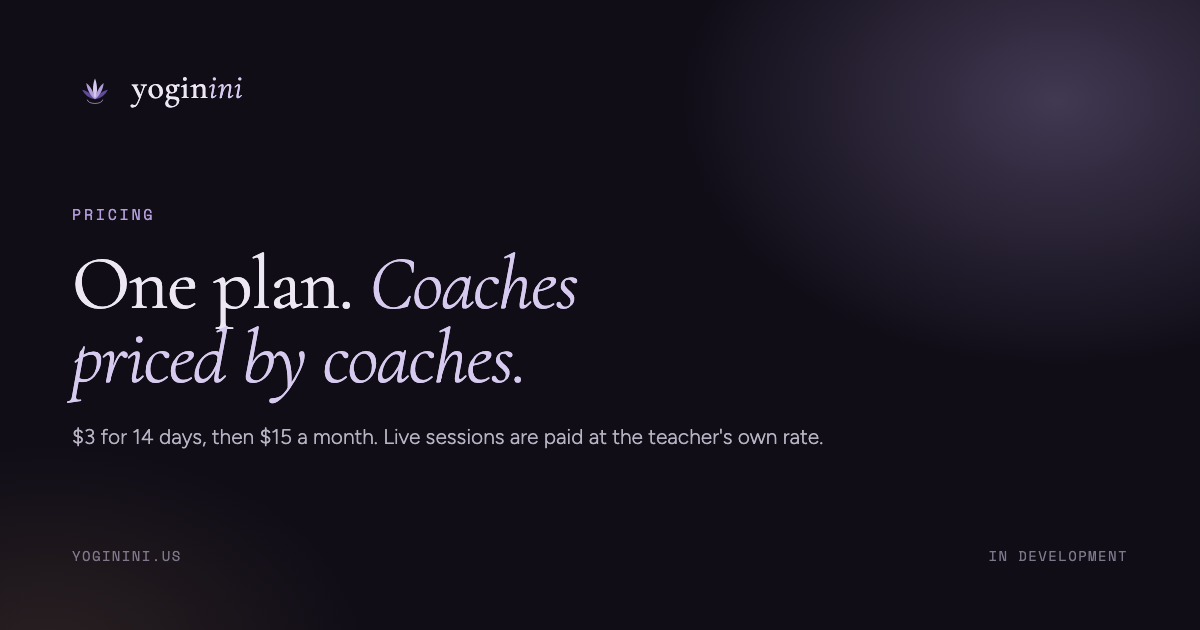
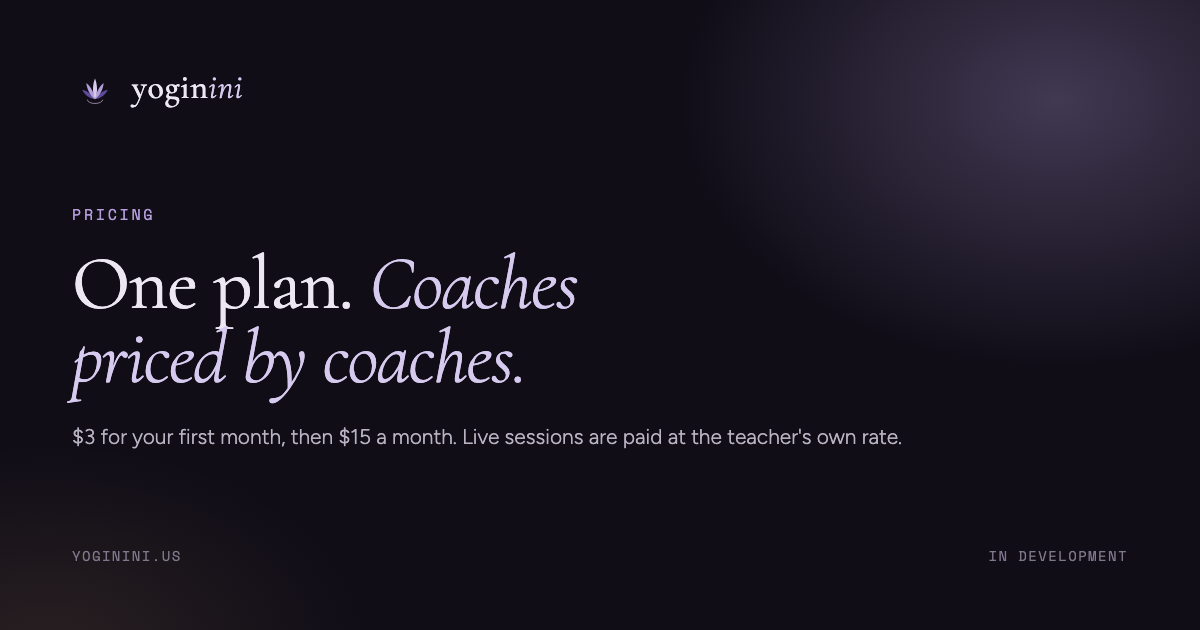
Pricing: $3 for your first month, then $15 a month (#20)
The owner chose the trial: $3 for the first month (a valid App Store intro period), then $15 a month.

Changed region(s): [[0.0925, 0.6635, 0.74, 0.7238]]

diff --git a/pricing/index.html b/pricing/index.html
@@ -4,7 +4,7 @@
 <meta charset="utf-8">
 <meta name="viewport" content="width=device-width, initial-scale=1">
 <title>Pricing — Yoginini</title>
-<meta name="description" content="$3 for 14 days, then $15 a month. Coaches are paid separately at their own hourly rate and keep 80% of every 1:1 session.">
+<meta name="description" content="$3 for your first month, then $15 a month. Coaches are paid separately at their own hourly rate and keep 80% of every 1:1 session.">
 <link rel="canonical" href="https://yoginini.us/pricing/">
 <meta name="theme-color" content="#100d17">
 <meta name="color-scheme" content="light">
@@ -12,14 +12,14 @@
 <meta property="og:type" content="website">
 <meta property="og:site_name" content="Yoginini">
 <meta property="og:title" content="Pricing — Yoginini">
-<meta property="og:description" content="$3 for 14 days, then $15 a month. Coaches are paid separately at their own hourly rate and keep 80% of every 1:1 session.">
+<meta property="og:description" content="$3 for your first month, then $15 a month. Coaches are paid separately at their own hourly rate and keep 80% of every 1:1 session.">
 <meta property="og:url" content="https://yoginini.us/pricing/">
 <meta property="og:image" content="https://yoginini.us/assets/og-pricing.png">
 <meta property="og:image:width" content="1200">
 <meta property="og:image:height" content="630">
 <meta name="twitter:card" content="summary_large_image">
 <meta name="twitter:title" content="Pricing — Yoginini">
-<meta name="twitter:description" content="$3 for 14 days, then $15 a month. Coaches are paid separately at their own hourly rate and keep 80% of every 1:1 session.">
+<meta name="twitter:description" content="$3 for your first month, then $15 a month. Coaches are paid separately at their own hourly rate and keep 80% of every 1:1 session.">
 <meta name="twitter:image" content="https://yoginini.us/assets/og-pricing.png">
 
 <link rel="icon" href="/assets/favicon.svg" type="image/svg+xml">
@@ -39,7 +39,7 @@
   .sheet-card .form input::placeholder { color: var(--on-dark-5); }
   .sheet-card .form input:focus, .sheet-card .form select:focus { border-color: var(--lav); }
   .sheet-card .form select option { background: #100d17; }</style>
-<script type="application/ld+json">{"@context":"https://schema.org","@graph":[{"@type":"Organization","@id":"https://yoginini.us/#org","name":"Yoginini","url":"https://yoginini.us","email":"contact@yoginini.us","description":"Yoginini is a yoga app that watches your form through your phone camera and speaks corrections out loud, the way a teacher would across the room. Pose tracking runs on the device and video never leaves it. When you want a human, you book a real teacher by the hour.","logo":"https://yoginini.us/assets/icon-512.png","parentOrganization":{"@type":"Organization","name":"Factory Zero","url":"https://factory0.ventures"}},{"@type":"WebSite","@id":"https://yoginini.us/#site","url":"https://yoginini.us","name":"Yoginini","publisher":{"@id":"https://yoginini.us/#org"},"inLanguage":"en"},{"@type":"FAQPage","@id":"https://yoginini.us/pricing/#faq","mainEntity":[{"@type":"Question","name":"What exactly happens on day 14?","acceptedAnswer":{"@type":"Answer","text":"Your $3 trial becomes the $15 monthly membership. You'll get an email on day 12 with a one-tap cancel link. Cancel before day 14 and you pay nothing more."}},{"@type":"Question","name":"Is the price the same in the app and on the web?","acceptedAnswer":{"@type":"Answer","text":"In the US, yes: $15 either way. In other countries the App Store sets its own local price, so it can differ a little from the web. App stores take a cut of in-app subscriptions, so subscribing on the web leaves more for building the product."}},{"@type":"Question","name":"Do coaches charge extra for their poses and sequences?","acceptedAnswer":{"@type":"Answer","text":"No. Anything a coach publishes to the library is included in membership. Coaches earn from live sessions, not from gating content."}},{"@type":"Question","name":"How are coach payments handled?","acceptedAnswer":{"@type":"Answer","text":"Through Stripe. You pay per session at the coach's hourly rate; for every 1:1 session, the coach receives 80% and is paid out automatically. Refunds for missed or cancelled sessions follow each coach's stated policy."}},{"@type":"Question","name":"Can I pause instead of cancelling?","acceptedAnswer":{"@type":"Answer","text":"There is no pause, but cancelling loses nothing. Your streak and history are kept, and you can resubscribe any time. The trial is once per person, so coming back goes straight to the monthly membership."}},{"@type":"Question","name":"When does any of this start charging?","acceptedAnswer":{"@type":"Answer","text":"Not yet. There is no app and no payment form on this site. Nothing can charge you today, and the waitlist never asks for a card."}}]},{"@type":"BreadcrumbList","itemListElement":[{"@type":"ListItem","position":1,"name":"Home","item":"https://yoginini.us/"},{"@type":"ListItem","position":2,"name":"Pricing","item":"https://yoginini.us/pricing/"}]}]}</script>
+<script type="application/ld+json">{"@context":"https://schema.org","@graph":[{"@type":"Organization","@id":"https://yoginini.us/#org","name":"Yoginini","url":"https://yoginini.us","email":"contact@yoginini.us","description":"Yoginini is a yoga app that watches your form through your phone camera and speaks corrections out loud, the way a teacher would across the room. Pose tracking runs on the device and video never leaves it. When you want a human, you book a real teacher by the hour.","logo":"https://yoginini.us/assets/icon-512.png","parentOrganization":{"@type":"Organization","name":"Factory Zero","url":"https://factory0.ventures"}},{"@type":"WebSite","@id":"https://yoginini.us/#site","url":"https://yoginini.us","name":"Yoginini","publisher":{"@id":"https://yoginini.us/#org"},"inLanguage":"en"},{"@type":"FAQPage","@id":"https://yoginini.us/pricing/#faq","mainEntity":[{"@type":"Question","name":"What happens when the first month ends?","acceptedAnswer":{"@type":"Answer","text":"Your $3 first month becomes the $15 monthly membership. You'll get an email two days before, with a one-tap cancel link. Cancel before the month ends and you pay nothing more."}},{"@type":"Question","name":"Is the price the same in the app and on the web?","acceptedAnswer":{"@type":"Answer","text":"In the US, yes: $15 either way. In other countries the App Store sets its own local price, so it can differ a little from the web. App stores take a cut of in-app subscriptions, so subscribing on the web leaves more for building the product."}},{"@type":"Question","name":"Do coaches charge extra for their poses and sequences?","acceptedAnswer":{"@type":"Answer","text":"No. Anything a coach publishes to the library is included in membership. Coaches earn from live sessions, not from gating content."}},{"@type":"Question","name":"How are coach payments handled?","acceptedAnswer":{"@type":"Answer","text":"Through Stripe. You pay per session at the coach's hourly rate; for every 1:1 session, the coach receives 80% and is paid out automatically. Refunds for missed or cancelled sessions follow each coach's stated policy."}},{"@type":"Question","name":"Can I pause instead of cancelling?","acceptedAnswer":{"@type":"Answer","text":"There is no pause, but cancelling loses nothing. Your streak and history are kept, and you can resubscribe any time. The trial is once per person, so coming back goes straight to the monthly membership."}},{"@type":"Question","name":"When does any of this start charging?","acceptedAnswer":{"@type":"Answer","text":"Not yet. There is no app and no payment form on this site. Nothing can charge you today, and the waitlist never asks for a card."}}]},{"@type":"BreadcrumbList","itemListElement":[{"@type":"ListItem","position":1,"name":"Home","item":"https://yoginini.us/"},{"@type":"ListItem","position":2,"name":"Pricing","item":"https://yoginini.us/pricing/"}]}]}</script>
 </head>
 <body>
 <a class="skip" href="#main">Skip to content</a>
@@ -72,8 +72,8 @@
   <div class="cards-3" style="max-width:960px;margin:0 auto;grid-template-columns:repeat(auto-fit,minmax(min(100%,300px),1fr))">
     <div class="card" style="padding:40px 36px;border-radius:28px;box-shadow:0 40px 60px -40px rgba(26,22,32,.3);gap:18px">
       <span class="mono" style="font-size:11px;color:var(--muted-2)">TRIAL</span>
-      <span style="display:flex;align-items:baseline;gap:8px"><span style="font-family:var(--serif);font-size:80px;line-height:1">$3</span><span class="body">for 14 days</span></span>
-      <p class="body" style="margin:0">Everything in membership, for two weeks. On day 14 it rolls into the monthly plan unless you cancel. We email you on day 12, and cancelling is one tap.</p>
+      <span style="display:flex;align-items:baseline;gap:8px"><span style="font-family:var(--serif);font-size:80px;line-height:1">$3</span><span class="body">for your first month</span></span>
+      <p class="body" style="margin:0">Everything in membership, for your first month. Then it rolls into the monthly plan unless you cancel. We email you two days before, and cancelling is one tap.</p>
       <button class="btn btn-ghost btn-block" type="button" data-sheet style="margin-top:auto">Join the waitlist</button>
     </div>
     <div class="card card-dark" style="padding:40px 36px;border-radius:28px;border-color:var(--purple);box-shadow:0 40px 60px -40px rgba(26,22,32,.5);gap:18px">
@@ -128,8 +128,8 @@
     <h2 style="margin-bottom:clamp(28px,4vh,48px)">Billing, plainly.</h2>
     <div class="faq">
       <details>
-        <summary><span>What exactly happens on day 14?</span><span class="plus" aria-hidden="true">+</span></summary>
-        <p class="answer">Your $3 trial becomes the $15 monthly membership. You’ll get an email on day 12 with a one-tap cancel link. Cancel before day 14 and you pay nothing more.</p>
+        <summary><span>What happens when the first month ends?</span><span class="plus" aria-hidden="true">+</span></summary>
+        <p class="answer">Your $3 first month becomes the $15 monthly membership. You’ll get an email two days before, with a one-tap cancel link. Cancel before the month ends and you pay nothing more.</p>
       </details>
       <details>
         <summary><span>Is the price the same in the app and on the web?</span><span class="plus" aria-hidden="true">+</span></summary>

diff --git a/index.html b/index.html
@@ -39,7 +39,7 @@
   .sheet-card .form input::placeholder { color: var(--on-dark-5); }
   .sheet-card .form input:focus, .sheet-card .form select:focus { border-color: var(--lav); }
   .sheet-card .form select option { background: #100d17; }</style>
-<script type="application/ld+json">{"@context":"https://schema.org","@graph":[{"@type":"Organization","@id":"https://yoginini.us/#org","name":"Yoginini","url":"https://yoginini.us","email":"contact@yoginini.us","description":"Yoginini is a yoga app that watches your form through your phone camera and speaks corrections out loud, the way a teacher would across the room. Pose tracking runs on the device and video never leaves it. When you want a human, you book a real teacher by the hour.","logo":"https://yoginini.us/assets/icon-512.png","parentOrganization":{"@type":"Organization","name":"Factory Zero","url":"https://factory0.ventures"}},{"@type":"WebSite","@id":"https://yoginini.us/#site","url":"https://yoginini.us","name":"Yoginini","publisher":{"@id":"https://yoginini.us/#org"},"inLanguage":"en"},{"@type":"SoftwareApplication","@id":"https://yoginini.us/#app","name":"Yoginini","applicationCategory":"HealthApplication","applicationSubCategory":"Yoga","operatingSystem":"iOS","description":"Yoginini is a yoga app that watches your form through your phone camera and speaks corrections out loud, the way a teacher would across the room. Pose tracking runs on the device and video never leaves it. When you want a human, you book a real teacher by the hour.","publisher":{"@id":"https://yoginini.us/#org"},"offers":[{"@type":"Offer","name":"Trial","price":"3","priceCurrency":"USD","description":"14 days trial, then the monthly membership","availability":"https://schema.org/PreOrder"},{"@type":"Offer","name":"Membership","price":"15","priceCurrency":"USD","availability":"https://schema.org/PreOrder","priceSpecification":{"@type":"UnitPriceSpecification","price":"15","priceCurrency":"USD","billingDuration":1,"billingIncrement":1,"unitCode":"MON","referenceQuantity":{"@type":"QuantitativeValue","value":1,"unitCode":"MON"}}}]},{"@type":"FAQPage","@id":"https://yoginini.us/#faq","mainEntity":[{"@type":"Question","name":"Does anyone see my camera feed?","acceptedAnswer":{"@type":"Answer","text":"No. Video is processed on your phone and discarded frame by frame. Our servers receive joint angles and scores, never images. There is nothing to watch, even for us."}},{"@type":"Question","name":"I'm a complete beginner. Will it just tell me I'm wrong all the time?","acceptedAnswer":{"@type":"Answer","text":"Every pose ships with beginner, intermediate and advanced tolerances, and over time the app scales to your own baseline. A tight hamstring is a starting point, not an error."}},{"@type":"Question","name":"What happens after the $3 trial?","acceptedAnswer":{"@type":"Answer","text":"After 14 days it becomes the $15 monthly membership. We email you two days before, and cancelling takes one tap."}},{"@type":"Question","name":"Are coaching sessions included in the membership?","acceptedAnswer":{"@type":"Answer","text":"No. Coaches set their own hourly rate, and you pay per session. Your membership gives you their published poses and sequences to practise between calls."}},{"@type":"Question","name":"Can a teacher look at my progress?","acceptedAnswer":{"@type":"Answer","text":"If you want them to. You choose which sessions, poses or your full history to send a coach for review. They see the same angles and scores the app saw, never video, and can reply with notes or a sequence to work on. Sharing is off by default and you can revoke it any time."}},{"@type":"Question","name":"Do I need special equipment?","acceptedAnswer":{"@type":"Answer","text":"A phone with a camera and somewhere to lean it. Landscape, about two metres away, roughly hip height. The app checks your framing before each session."}},{"@type":"Question","name":"Which phones?","acceptedAnswer":{"@type":"Answer","text":"iPhone first, Android shortly after. Join the waitlist and tell us which you use."}},{"@type":"Question","name":"Is Yoginini available yet?","acceptedAnswer":{"@type":"Answer","text":"Not yet. Nothing has shipped and there is no app to download. Our first founding coach has joined, and the waitlist is open; booking starts when the app launches."}}]}]}</script>
+<script type="application/ld+json">{"@context":"https://schema.org","@graph":[{"@type":"Organization","@id":"https://yoginini.us/#org","name":"Yoginini","url":"https://yoginini.us","email":"contact@yoginini.us","description":"Yoginini is a yoga app that watches your form through your phone camera and speaks corrections out loud, the way a teacher would across the room. Pose tracking runs on the device and video never leaves it. When you want a human, you book a real teacher by the hour.","logo":"https://yoginini.us/assets/icon-512.png","parentOrganization":{"@type":"Organization","name":"Factory Zero","url":"https://factory0.ventures"}},{"@type":"WebSite","@id":"https://yoginini.us/#site","url":"https://yoginini.us","name":"Yoginini","publisher":{"@id":"https://yoginini.us/#org"},"inLanguage":"en"},{"@type":"SoftwareApplication","@id":"https://yoginini.us/#app","name":"Yoginini","applicationCategory":"HealthApplication","applicationSubCategory":"Yoga","operatingSystem":"iOS","description":"Yoginini is a yoga app that watches your form through your phone camera and speaks corrections out loud, the way a teacher would across the room. Pose tracking runs on the device and video never leaves it. When you want a human, you book a real teacher by the hour.","publisher":{"@id":"https://yoginini.us/#org"},"offers":[{"@type":"Offer","name":"Trial","price":"3","priceCurrency":"USD","description":"your first month trial, then the monthly membership","availability":"https://schema.org/PreOrder"},{"@type":"Offer","name":"Membership","price":"15","priceCurrency":"USD","availability":"https://schema.org/PreOrder","priceSpecification":{"@type":"UnitPriceSpecification","price":"15","priceCurrency":"USD","billingDuration":1,"billingIncrement":1,"unitCode":"MON","referenceQuantity":{"@type":"QuantitativeValue","value":1,"unitCode":"MON"}}}]},{"@type":"FAQPage","@id":"https://yoginini.us/#faq","mainEntity":[{"@type":"Question","name":"Does anyone see my camera feed?","acceptedAnswer":{"@type":"Answer","text":"No. Video is processed on your phone and discarded frame by frame. Our servers receive joint angles and scores, never images. There is nothing to watch, even for us."}},{"@type":"Question","name":"I'm a complete beginner. Will it just tell me I'm wrong all the time?","acceptedAnswer":{"@type":"Answer","text":"Every pose ships with beginner, intermediate and advanced tolerances, and over time the app scales to your own baseline. A tight hamstring is a starting point, not an error."}},{"@type":"Question","name":"What happens after the $3 trial?","acceptedAnswer":{"@type":"Answer","text":"After your first month it becomes the $15 monthly membership. We email you two days before, and cancelling takes one tap."}},{"@type":"Question","name":"Are coaching sessions included in the membership?","acceptedAnswer":{"@type":"Answer","text":"No. Coaches set their own hourly rate, and you pay per session. Your membership gives you their published poses and sequences to practise between calls."}},{"@type":"Question","name":"Can a teacher look at my progress?","acceptedAnswer":{"@type":"Answer","text":"If you want them to. You choose which sessions, poses or your full history to send a coach for review. They see the same angles and scores the app saw, never video, and can reply with notes or a sequence to work on. Sharing is off by default and you can revoke it any time."}},{"@type":"Question","name":"Do I need special equipment?","acceptedAnswer":{"@type":"Answer","text":"A phone with a camera and somewhere to lean it. Landscape, about two metres away, roughly hip height. The app checks your framing before each session."}},{"@type":"Question","name":"Which phones?","acceptedAnswer":{"@type":"Answer","text":"iPhone first, Android shortly after. Join the waitlist and tell us which you use."}},{"@type":"Question","name":"Is Yoginini available yet?","acceptedAnswer":{"@type":"Answer","text":"Not yet. Nothing has shipped and there is no app to download. Our first founding coach has joined, and the waitlist is open; booking starts when the app launches."}}]}]}</script>
 </head>
 <body>
 <a class="skip" href="#main">Skip to content</a>
@@ -389,8 +389,8 @@
         <div class="card" data-reveal>
           <span class="mono" style="font-size:11px;color:var(--muted-2)">TRY IT</span>
           <span style="font-family:var(--serif);font-size:64px;line-height:1">$3</span>
-          <span class="fine" style="margin:0">for 14 days</span>
-          <p class="body" style="margin:0;font-size:14px">Full access, every pose, every cue. On day 14 it becomes the monthly plan unless you cancel, and we remind you two days before.</p>
+          <span class="fine" style="margin:0">for your first month</span>
+          <p class="body" style="margin:0;font-size:14px">Full access, every pose, every cue. After the first month it becomes the monthly plan unless you cancel, and we remind you two days before.</p>
         </div>
         <div class="card card-dark" data-reveal>
           <span class="mono" style="font-size:11px;color:var(--lav)">MEMBERSHIP</span>
@@ -449,7 +449,7 @@
     </details>
     <details>
       <summary><span>What happens after the $3 trial?</span><span class="plus" aria-hidden="true">+</span></summary>
-      <p class="answer">After 14 days it becomes the $15 monthly membership. We email you two days before, and cancelling takes one tap.</p>
+      <p class="answer">After your first month it becomes the $15 monthly membership. We email you two days before, and cancelling takes one tap.</p>
     </details>
     <details>
       <summary><span>Are coaching sessions included in the membership?</span><span class="plus" aria-hidden="true">+</span></summary>

diff --git a/tools/pages.js b/tools/pages.js
@@ -91,7 +91,7 @@ const PAGES = [
   { slug: 'coaches',     file: 'coaches/index.html',    nav: 'Coaches',     title: `Coaches — ${B.name}`,
     desc: 'Real yoga teachers, booked by the hour. Coaches set their own rate and keep 80% of every 1:1 session. Apply to join the founding cohort.' },
   { slug: 'pricing',     file: 'pricing/index.html',    nav: 'Pricing',     title: `Pricing — ${B.name}`,
-    desc: '$3 for 14 days, then $15 a month. Coaches are paid separately at their own hourly rate and keep 80% of every 1:1 session.' },
+    desc: '$3 for your first month, then $15 a month. Coaches are paid separately at their own hourly rate and keep 80% of every 1:1 session.' },
   { slug: 'privacy',     file: 'privacy/index.html',    nav: null,          title: `Privacy — ${B.name}`,
     desc: 'What Yoginini stores and what it does not. Video is analysed on your phone and discarded; only joint angles and scores leave the device.' }
 ];
@@ -578,7 +578,7 @@ function home() {
           <span class="mono" style="font-size:11px;color:var(--muted-2)">TRY IT</span>
           <span style="font-family:var(--serif);font-size:64px;line-height:1">$${D.pricing.trial.price}</span>
           <span class="fine" style="margin:0">for ${esc(D.pricing.trial.period)}</span>
-          <p class="body" style="margin:0;font-size:14px">Full access, every pose, every cue. On day 14 it becomes the monthly plan unless you cancel, and we remind you two days before.</p>
+          <p class="body" style="margin:0;font-size:14px">Full access, every pose, every cue. After the first month it becomes the monthly plan unless you cancel, and we remind you two days before.</p>
         </div>
         <div class="card card-dark" data-reveal>
           <span class="mono" style="font-size:11px;color:var(--lav)">MEMBERSHIP</span>
@@ -1003,7 +1003,7 @@ function pricing() {
     <div class="card" style="padding:40px 36px;border-radius:28px;box-shadow:0 40px 60px -40px rgba(26,22,32,.3);gap:18px">
       <span class="mono" style="font-size:11px;color:var(--muted-2)">TRIAL</span>
       <span style="display:flex;align-items:baseline;gap:8px"><span style="font-family:var(--serif);font-size:80px;line-height:1">$${P.trial.price}</span><span class="body">for ${esc(P.trial.period)}</span></span>
-      <p class="body" style="margin:0">Everything in membership, for two weeks. On day 14 it rolls into the monthly plan unless you cancel. We email you on day 12, and cancelling is one tap.</p>
+      <p class="body" style="margin:0">Everything in membership, for your first month. Then it rolls into the monthly plan unless you cancel. We email you two days before, and cancelling is one tap.</p>
       <button class="btn btn-ghost btn-block" type="button" data-sheet style="margin-top:auto">Join the waitlist</button>
     </div>
     <div class="card card-dark" style="padding:40px 36px;border-radius:28px;border-color:var(--purple);box-shadow:0 40px 60px -40px rgba(26,22,32,.5);gap:18px">

diff --git a/assets/yog-data.js b/assets/yog-data.js
@@ -41,7 +41,7 @@ window.YOG = {
   /* ── Pricing ─────────────────────────────────────────────── */
   pricing: {
     currency: 'USD',
-    trial:      { name: 'Trial',      price: 3,  period: '14 days', rolls: true },
+    trial:      { name: 'Trial',      price: 3,  period: 'your first month', rolls: true },
     membership: { name: 'Membership', price: 15, period: 'month' },
     membershipIncludes: [
       'Live camera coaching with spoken cues',
@@ -249,7 +249,7 @@ window.YOG = {
     { q: "I'm a complete beginner. Will it just tell me I'm wrong all the time?",
       a: 'Every pose ships with beginner, intermediate and advanced tolerances, and over time the app scales to your own baseline. A tight hamstring is a starting point, not an error.' },
     { q: 'What happens after the $3 trial?',
-      a: 'After 14 days it becomes the $15 monthly membership. We email you two days before, and cancelling takes one tap.' },
+      a: 'After your first month it becomes the $15 monthly membership. We email you two days before, and cancelling takes one tap.' },
     { q: 'Are coaching sessions included in the membership?',
       a: 'No. Coaches set their own hourly rate, and you pay per session. Your membership gives you their published poses and sequences to practise between calls.' },
     { q: 'Can a teacher look at my progress?',
@@ -263,8 +263,8 @@ window.YOG = {
   ],
 
   billingFaqs: [
-    { q: 'What exactly happens on day 14?',
-      a: "Your $3 trial becomes the $15 monthly membership. You'll get an email on day 12 with a one-tap cancel link. Cancel before day 14 and you pay nothing more." },
+    { q: 'What happens when the first month ends?',
+      a: "Your $3 first month becomes the $15 monthly membership. You'll get an email two days before, with a one-tap cancel link. Cancel before the month ends and you pay nothing more." },
     { q: 'Is the price the same in the app and on the web?',
       a: "In the US, yes: $15 either way. In other countries the App Store sets its own local price, so it can differ a little from the web. App stores take a cut of in-app subscriptions, so subscribing on the web leaves more for building the product." },
     { q: 'Do coaches charge extra for their poses and sequences?',

diff --git a/README.md b/README.md
@@ -52,7 +52,7 @@ are stuck — because you chose to share your practice history with them.
 
 | Plan | Price | Notes |
 | :--- | :--- | :--- |
-| Trial | **$3** / 14 days | Rolls into membership on day 14 unless cancelled; email on day 12 |
+| Trial | **$3** / first month | Rolls into membership after the first month unless cancelled; email two days before |
 | Membership | **$15** / month | Same price on web and in-app in the US; the App Store sets local prices elsewhere |
 | Coaching | **$50–85** / hr | Not included. Coach sets the rate and keeps **80%** |
 | Repeat bookings | 10–12% | Platform share drops after a student's first session with the same coach |
